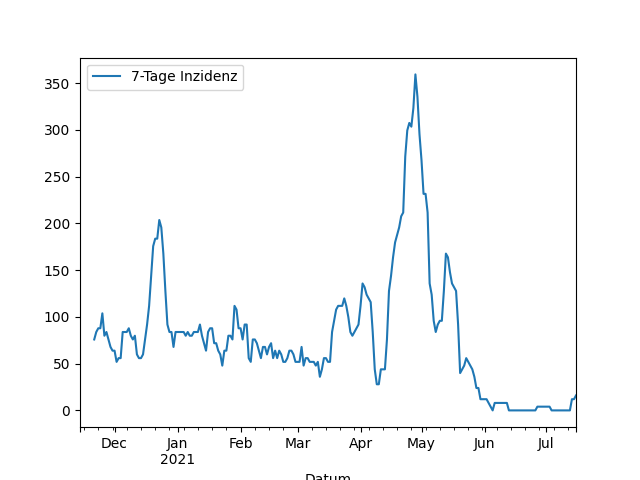
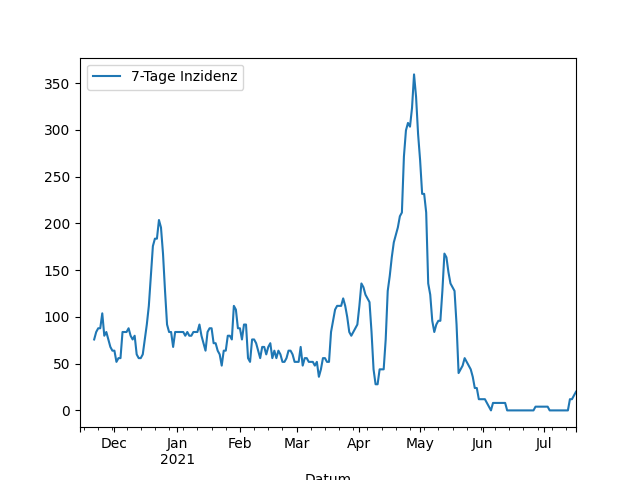
Update images

diff --git a/_includes/aktuelle_inzidenz.md b/_includes/aktuelle_inzidenz.md
@@ -1,1 +1,1 @@
-16,0
+20,0
